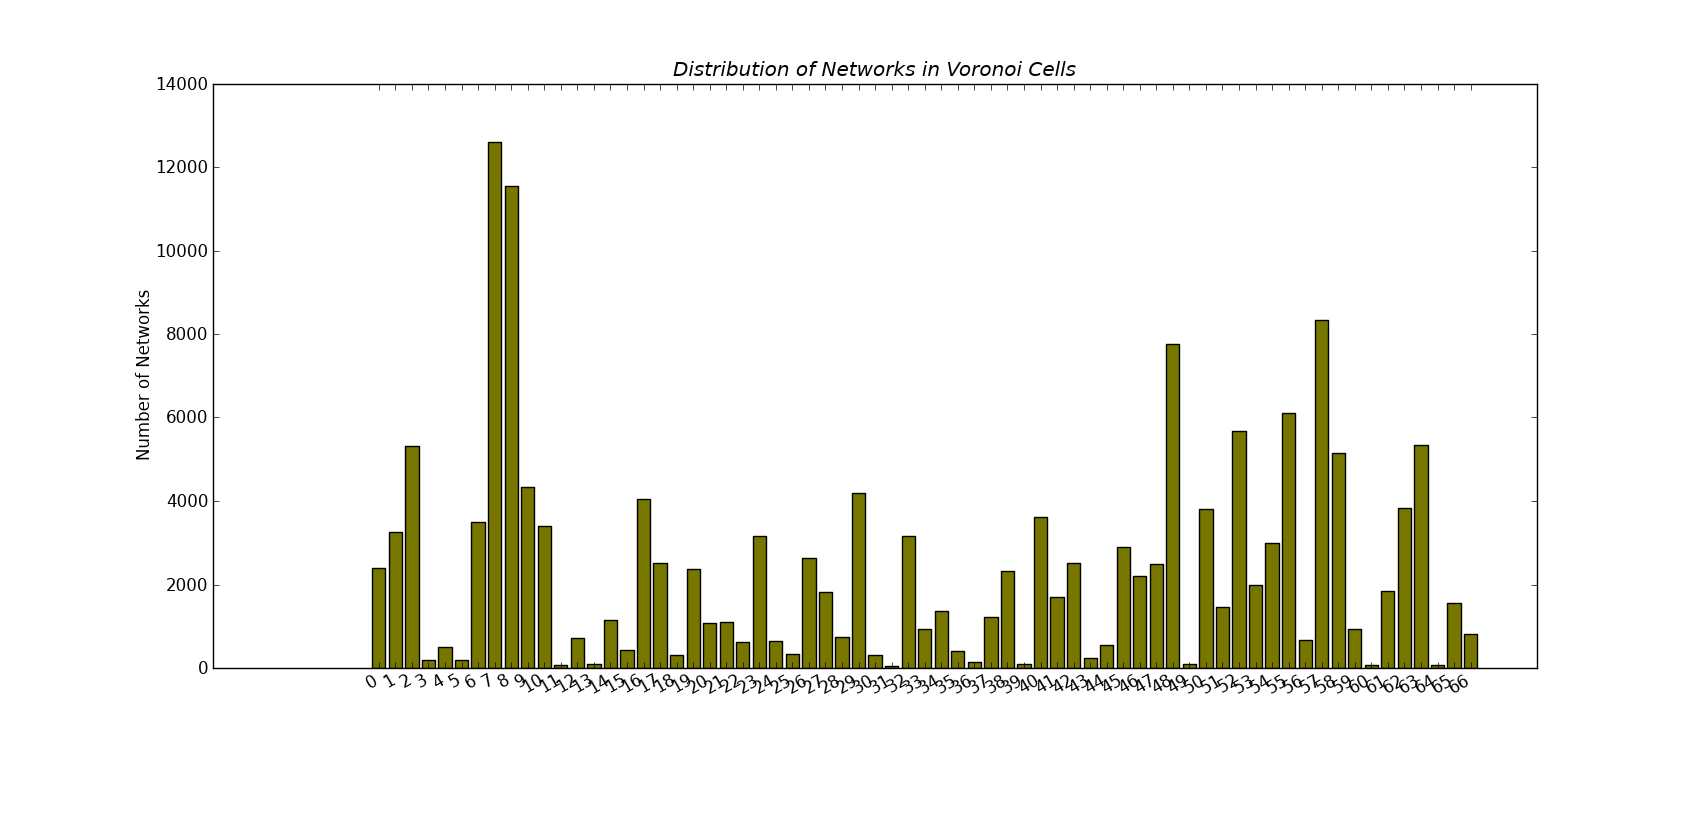
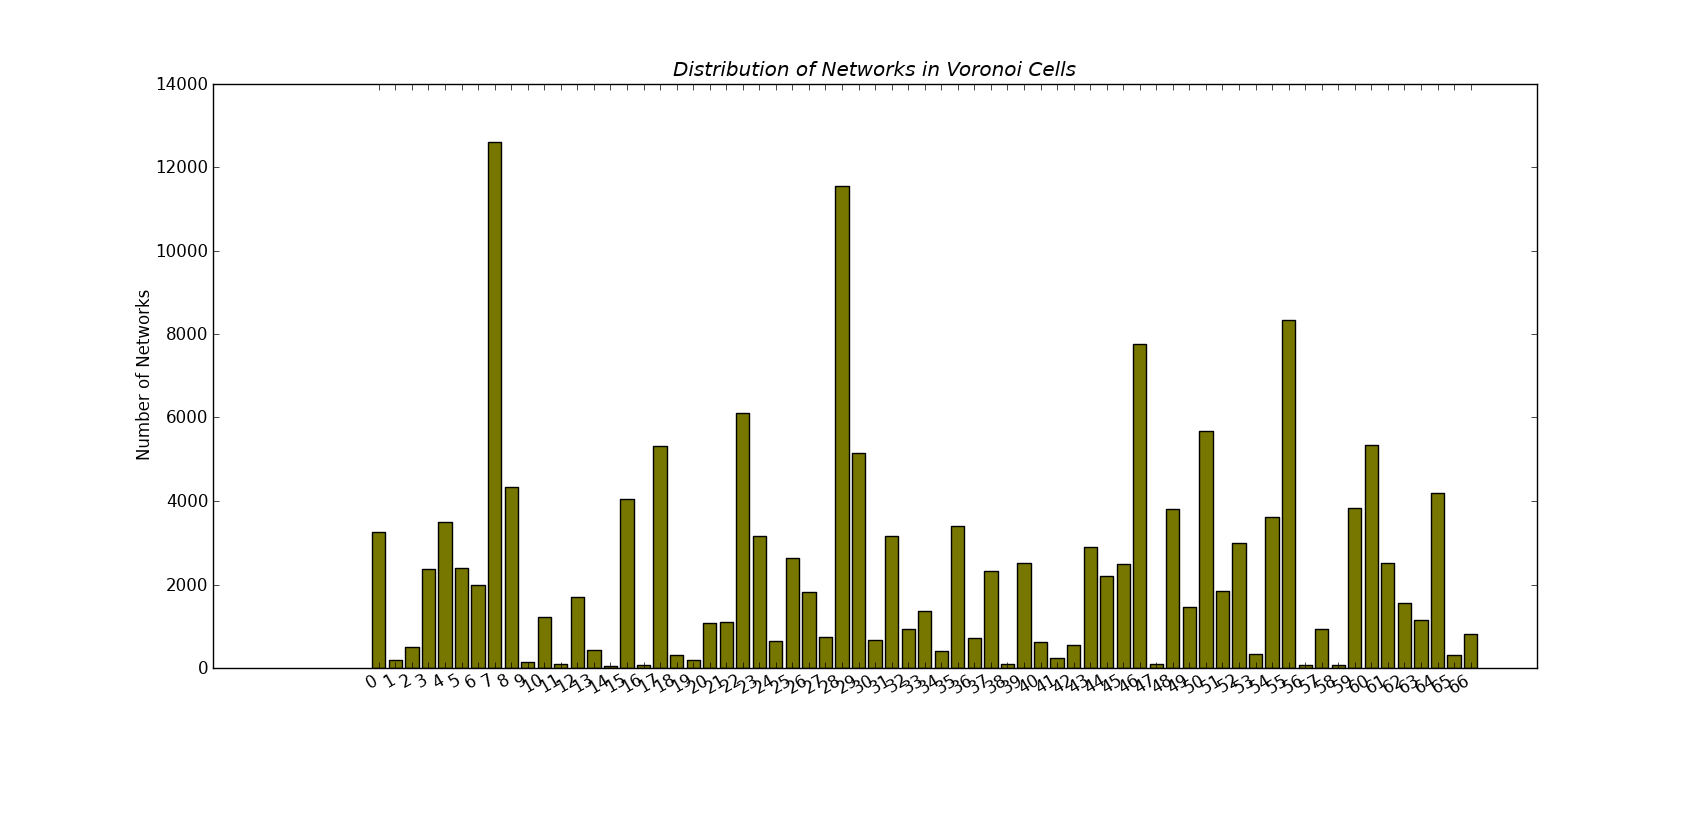
adding the data processing here

Changed region(s): [[0.2173, 0.218, 0.8694, 0.8096]]

diff --git a/server_locations.py b/server_locations.py
@@ -11,30 +11,7 @@ from mpl_toolkits.basemap import Basemap
 import matplotlib.pyplot as plt
 from matplotlib.patches import Polygon
 import matplotlib.nxutils as nx
-
-def plotDiagramFromLattice( ax, voronoiLattice, map ):
-    voronoiPolygons = {}
-    #print voronoiLattice
-    # Plotting the Polygons returned by py_geo_voronoi
-    N = len( voronoiLattice.items() )
-    for x in range( N ):
-    #for serialNo, data in voronoiLattice.items():
-        data = voronoiLattice[ x ]
-        serialNo = x
-        polygon_data = data[ 'obj_polygon']
-        pointList = []
-
-        for point in list( polygon_data.exterior.coords ):
-            pointMap = map( point[0], point[1] )
-            pointList.append( pointMap )
-
-        ax.add_patch( Polygon( pointList, fill=0, edgecolor='red' ))
-        if serialNo == 44:
-            print data[ 'info' ]
-        #    ax.add_patch( Polygon( pointList, fill=1, edgecolor='black' ))
-        voronoiPolygons[ serialNo ] = np.array( pointList )
-    
-    return voronoiPolygons
+from cidrize import cidrize
 
 def mergeDuplicates( PointsMap ):
 
@@ -61,6 +38,27 @@ def mergeDuplicates( PointsMap ):
 
     return uniquePointsMap
 
+def plotDiagramFromLattice( ax, voronoiLattice, map ):
+    voronoiPolygons = {}
+
+    # Plotting the Polygons returned by py_geo_voronoi
+    N = len( voronoiLattice.items() )
+    for x in range( N ):
+        data = voronoiLattice[ x ]
+        serialNo = x
+        polygon_data = data[ 'obj_polygon']
+        pointList = []
+
+        for point in list( polygon_data.exterior.coords ):
+            pointMap = map( point[0], point[1] )
+            pointList.append( pointMap )
+
+        ax.add_patch( Polygon( pointList, fill=0, edgecolor='black' ))
+        voronoiPolygons[ serialNo ] = np.array( pointList )
+    
+    return voronoiPolygons
+
+
 def drawBarChart( serverNames, histDataList, maxIndex ):
     fig = plt.figure()
     ax = fig.add_subplot( 1,1,1 )
@@ -76,9 +74,6 @@ def drawBarChart( serverNames, histDataList, maxIndex ):
     # the center of the bars.
     ax.set_xticks(ind)
  
-    # Set the x tick labels to the group_labels defined above.
-    #ax.set_xticklabels(serverNames)
-    
     # Extremely nice function to auto-rotate the x axis labels.
     # It was made for dates (hence the name) but it works
     # for any long x tick labels
@@ -88,14 +83,22 @@ def drawBarChart( serverNames, histDataList, maxIndex ):
 def getNetworkLocations( map ):
 
     file = open( "GeoIPCountryWhois.csv", "r" )
-    networkLatLon = []
+    networkLatLon = {}
 
-    for x in range( 160223 ):
+    #for i in range( 160223 ):
+    for i in range( 10000 ):
         try:
             whois = file.readline().split(",")
         except EOFError:
             break
         networkFromIP = whois[0].strip( '"' )
+        networkToIP = whois[1].strip( '"' )
+
+        if networkFromIP == networkToIP:
+            continue
+
+        ip_range = str( networkFromIP ) + "-" + str( networkToIP )
+        cidr_ip = cidrize( ip_range )
 
         gi = pygeoip.GeoIP( "/usr/local/share/GeoIP/GeoIPCity.dat",
                             pygeoip.STANDARD )
@@ -105,36 +108,15 @@ def getNetworkLocations( map ):
             print 'Error in:', networkFromIP
         if gir != None:
             x,y = map( gir[ 'longitude' ], gir[ 'latitude' ] )
-            networkLatLon.append( [x, y] )
+            networkLatLon[ i ] = { 'xCoord': x, 'yCoord': y, 'cidr': cidr_ip }
     return networkLatLon
         
-def main():
-
-    PointsMap={}
-    lat = []
-    lon = []
-    # List of all server names
-    serverName = []
-
-    for line in sys.stdin:
-        data = line.strip().split( " " )
-        
-        try:
-            # Pygeoip could not find the location of the server
-            if data[ 1 ] == 'Not':
-                continue
-            lat.append( float( data[ 1 ] ) )
-            lon.append( float( data[ 2 ] ) )
-            serverName.append( data[ 0 ] )
-            PointsMap[ data[ 0 ] ]=( float( data[ 2 ] ), float( data[ 1 ] ) )
-          
-        except:
-            sys.stderr.write( "Invalid Input Line: " + line )
+def main( PointsMap ):
 
     # Many server sites map to the same latitude and longitudes
     # Lets merge the duplicates
-    PointsMap = mergeDuplicates( PointsMap )
-    
+    #PointsMap = mergeDuplicates( PointsMap )
+
     # Method provided by py_geo_voronoi, returns a dictionary
     # of dictionaries, each sub-dictionary carrying information 
     # about a polygon in the Voronoi diagram.
@@ -181,11 +163,8 @@ def main():
     # Plotting all the servers with a scatter plot
     map.scatter( x, y, c='black', marker='.', zorder = 2)
 
-    # Test plot of serial number 23
-    #x1, y1 = map( lon[23], lat[23] )
-    #map.plot( x1, y1, c="red", marker="o")
-
     # Adding annotations
+    '''
     for name, a, b in zip(serialNum, x, y):
         plt.annotate(
             name, 
@@ -193,9 +172,10 @@ def main():
             textcoords = 'offset points', ha = 'right', va = 'bottom',
             bbox = dict(boxstyle = 'round,pad=0.5', fc = 'yellow', alpha = 1.5),
             arrowprops = dict(arrowstyle = '->', connectionstyle = 'arc3,rad=0'))
-
+    '''
     # Processing networks from Whois database
     # and getting each network's lat, long
+    # Also get the cidr notation
     networkLatLon = getNetworkLocations( map )
 
     ax = plt.gca()
@@ -206,18 +186,21 @@ def main():
     histogramData = histogramData.fromkeys( 
         range( 0, len( serverNames ) ), 0 )
 
-    for net in networkLatLon:
-        net = np.array( [ net ] )
+    pdnsFile = open( "pdns-config", "w" )
+
+    for sNo, netDetail in networkLatLon.iteritems():
+        net = np.array( [ [ netDetail[ 'xCoord' ], netDetail[ 'yCoord' ] ] ] )
         for serialNo, polygon in voronoiPolygons.items():
             if nx.points_inside_poly( net, polygon ):
                 histogramData[ serialNo ] += 1
+                for cidr_net in netDetail[ 'cidr' ]:
+                    pdnsFile.write( str( cidr_net ) + ' :' + 
+                                    '127.0.0.' + str( serialNo ) + "\n" )
                 break
-
+    pdnsFile.close()
     #print histogramData
 
     totalNetworks = sum( [ y for (x, y) in histogramData.items() ] )
-        #if nx.points_inside_poly( points, verts )[0]:
-        #    ax.add_patch( Polygon( pointList, fill=0, edgecolor='red' ))
 
     plt.title( 'Server Locations Across the Globe' )
     plt.savefig( 'voronoi-py.png' )
@@ -235,5 +218,3 @@ def main():
     for i in serialNum:
         print i, ':', voronoiLattice[ i ][ 'info' ]
     
-if __name__ == "__main__":
-    main()

diff --git a/data_preprocessing.py b/data_preprocessing.py
@@ -1,0 +1,97 @@
+#!/usr/bin/python2
+
+import re, pygeoip
+import server_locations
+
+def getServerNameAddr():
+    patternName = r'LocalSite .*'
+    patternURL = r'HttpProxy .*'
+    list_domain_URLs = []
+    list_domain_names = []
+    while True:
+        try:
+            string = raw_input()
+        except EOFError:
+            break
+        regexName = re.compile( patternName, re.DOTALL|re.IGNORECASE )
+        regexURL = re.compile( patternURL, re.DOTALL|re.IGNORECASE )
+        matchName = regexName.findall( string )
+        matchURL = regexURL.findall( string )
+        if matchName:
+            for x in matchName:
+                x = x.split()[-1][1:-1]
+                list_domain_names.append( x )
+        if matchURL:
+            for x in matchURL:
+                x = x.split()[-1][1:-1]
+                list_domain_URLs.append( x )
+
+    N = len( list_domain_names )    
+    serverDict = {}
+    # Make a dictionary from this information
+    for i in range( N ):
+        name = list_domain_names[ i ]
+        
+        # Getting all URLs from the URL string
+        URLs = list_domain_URLs[ i ]
+        pattern = r'http://.*?:'
+        regex = re.compile( pattern, re.DOTALL|re.IGNORECASE )
+        match = regex.findall( URLs )
+        URLsFinal = []
+        for x in match:
+            URLsFinal.append( x[:-1] )
+
+        serverDict[ name ] = URLsFinal
+
+    return serverDict
+
+def getServerLocations( serverDict ):
+    gi = pygeoip.GeoIP( "/usr/local/share/GeoIP/GeoIPCity.dat",
+                        pygeoip.STANDARD )
+    import socket
+    serverDictLocation = {}
+    for name, urls in serverDict.iteritems():
+        for url in urls:
+            url = url[7:]
+            gir = None
+            try:
+                gir = gi.record_by_name( url )
+            except socket.gaierror:
+                print 'socket error in', url
+            except pygeoip.GeoIPError:
+                print 'geoip error in', url
+            if gir != None:
+                break
+        
+        if gir != None:
+            serverDictLocation[ name ] = \
+            { 'url': urls, 'latitude': gir[ 'latitude' ], 
+              'longitude': gir[ 'longitude' ] }
+        else:
+            # NF = Not Found
+            serverDictLocation[ name ] = \
+            { 'url': urls, 'latitude': "NF", 'longitude': "NF" }
+
+    return serverDictLocation
+
+def main():
+
+    # Parsing geolist.txt to get the names and addresses of all servers
+    serverDict = getServerNameAddr()
+
+    # Get locations of all servers
+    serverDictLocation = getServerLocations( serverDict )
+
+    PointsMap = {}
+    for name, detail in serverDictLocation.iteritems():
+        if detail[ 'longitude' ] == 'NF':
+            continue
+        PointsMap[ name ] = ( detail[ 'longitude' ], detail[ 'latitude' ] )
+
+    server_locations.main( PointsMap )
+        
+    #for name, url in serverDictLocation.iteritems():
+    #    print name, url
+
+if  __name__ == "__main__":
+    main()
